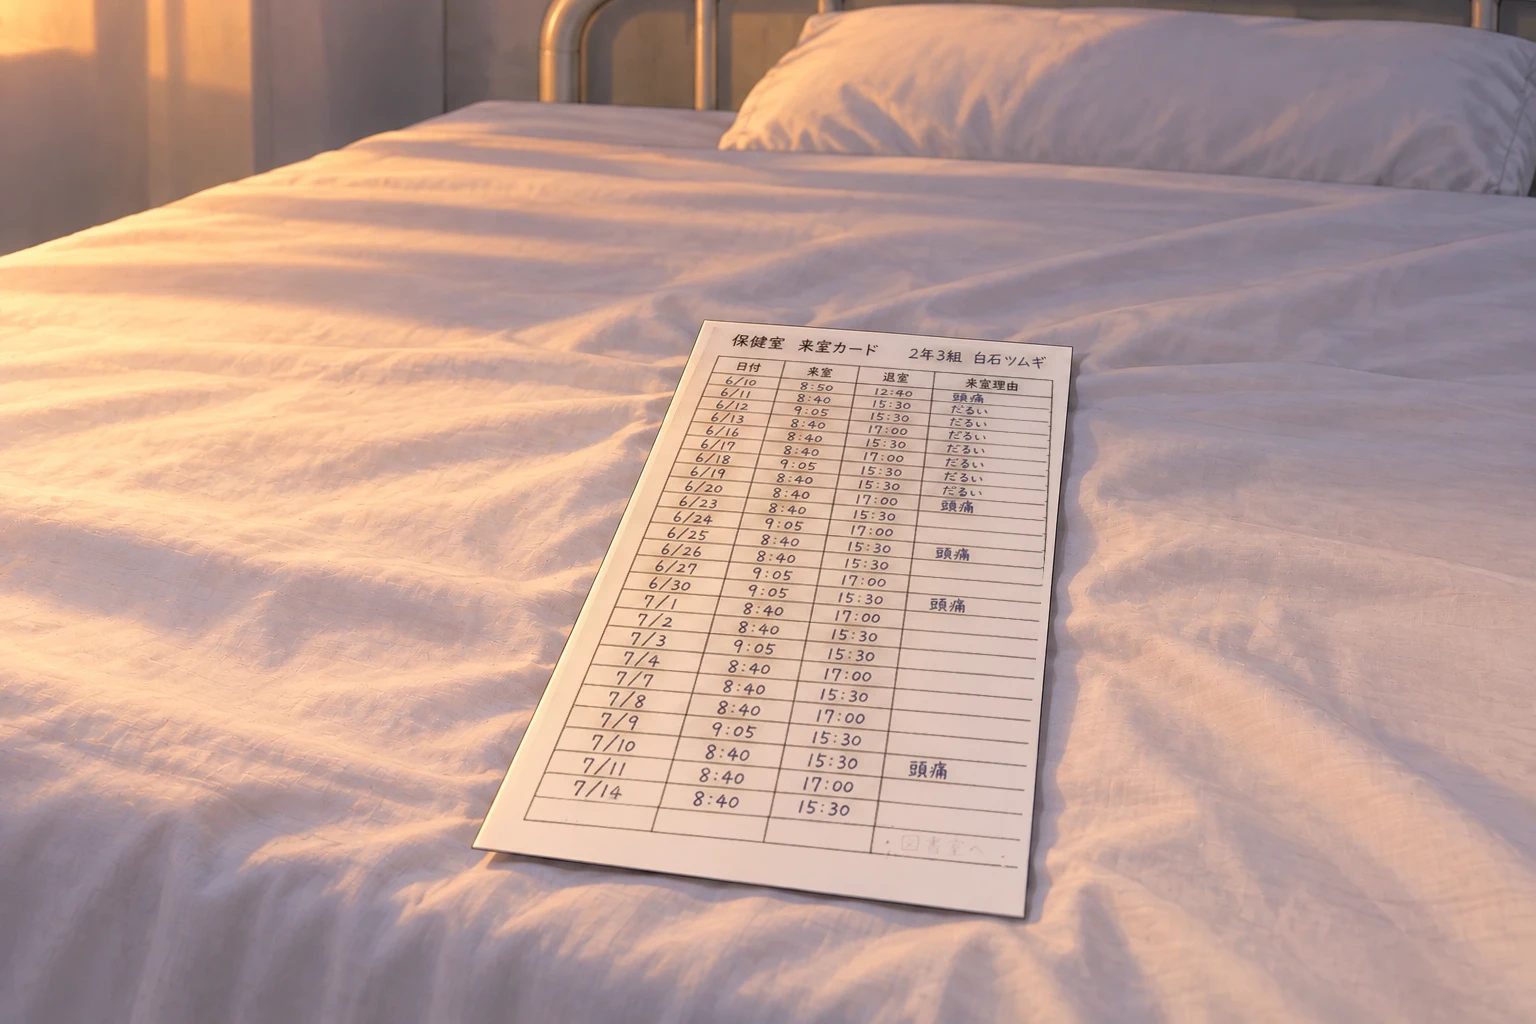
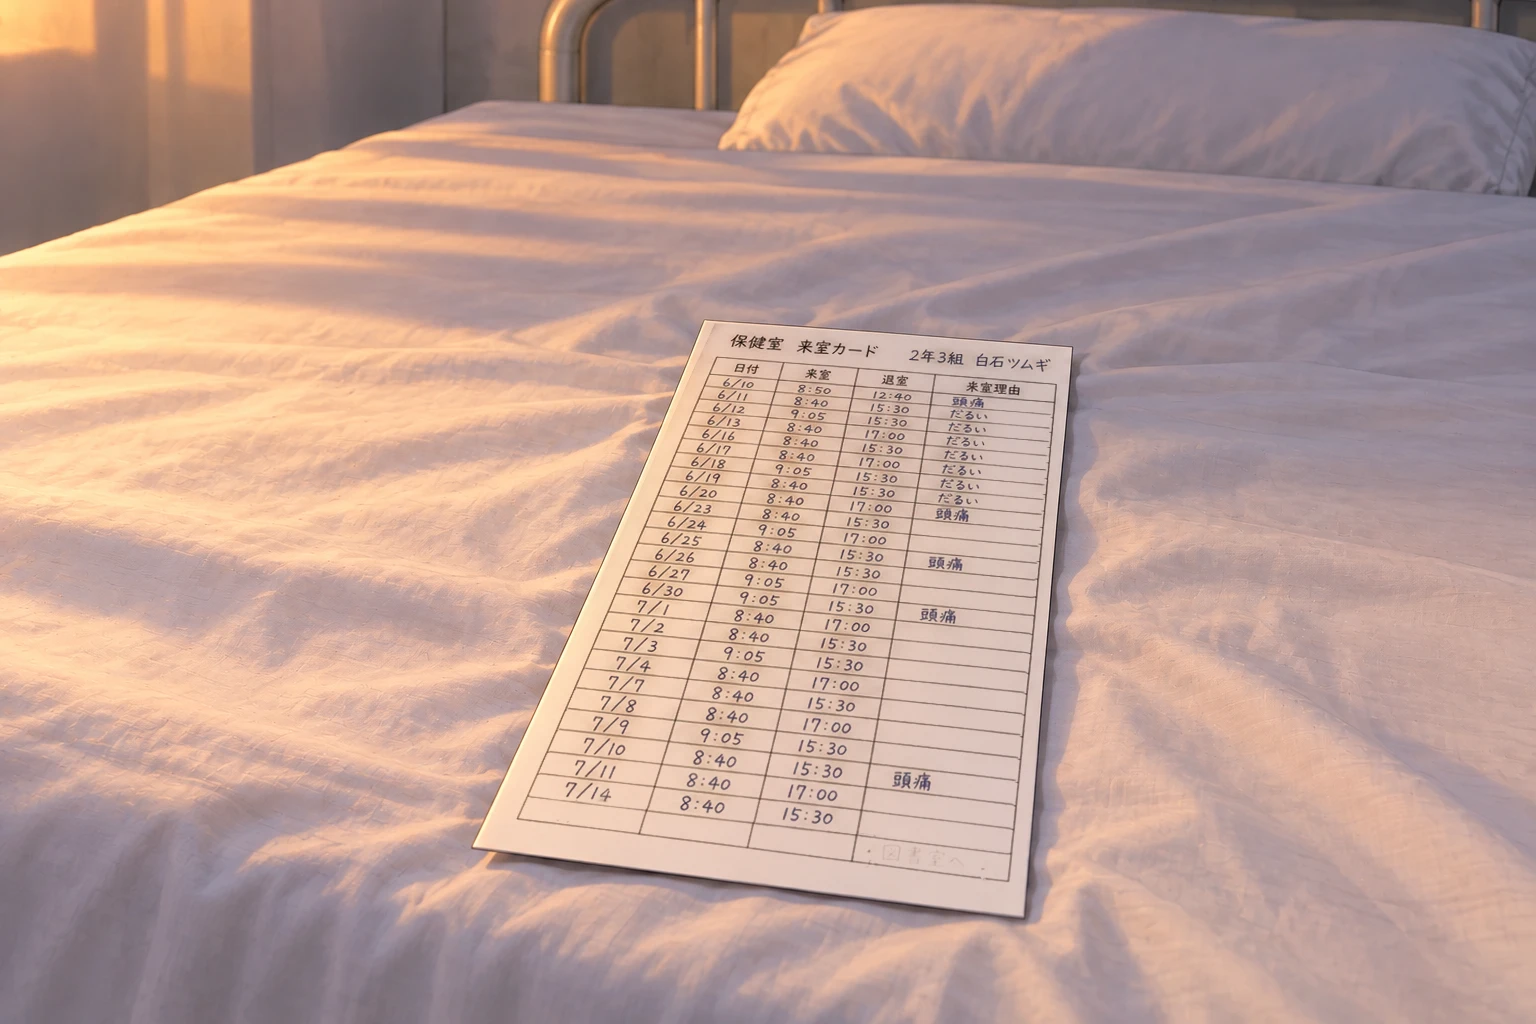
ベッドの上のカードの字をまっすぐに。保健室のツムギの座り姿と残るカードは直しが届くまで外す

Changed region(s): [[0.3438, 0.3125, 0.6875, 0.875]]

diff --git a/index.html b/index.html
@@ -4970,8 +4970,9 @@
   const INFIRMARY = {
     id: 'infirmary', key: 'tsumugi', name: 'ツムギ', who: 'この子', startMin: 120, room: '保健室', hall: 'hall_infirmary', label: '第五章「保健室」',
     bg: 'infirmary', bgClock: { cx: 830, cy: 202, rx: 40, ry: 40 },
-    sit: { src: 'tsumugi_sit', style: 'left:78.26%;top:34.67%;height:55.18%' },   // 手前のベッド（1）の角に座る
-    leftover: '', leftoverImg: 'i_left',   // 消えたあと、シーツの上に来室カード
+    // 部屋の座り姿（手前のベッドの角）と、消えたあとシーツの上に残るカードは、絵を直し中（Q51b・Q29c）。届くまで出さない
+    sit: { src: 'blank', style: 'left:0;top:0;width:1px;height:1px' },
+    leftover: 'left:88%;top:62%;width:3.6%;height:1.6%;transform:rotate(-4deg)',   // 仮の紙（Q29c が届くまで）
     faces: { normal: 'tsumugi_bust', smile: 'tsumugi_bust', wrap: 'tsumugi_wrap', angry: 'tsumugi_angry', surprise: 'tsumugi_surprise', sad: 'tsumugi_sad', down: 'tsumugi_down',
              grief: 'tsumugi_grief', despair: 'tsumugi_despair', shadow: 'tsumugi_despair', reject: 'tsumugi_angry', crySmile: 'tsumugi_crysmile',
              angryCry: 'tsumugi_angrycry',  // 怒りと悔しさをにじませた涙
